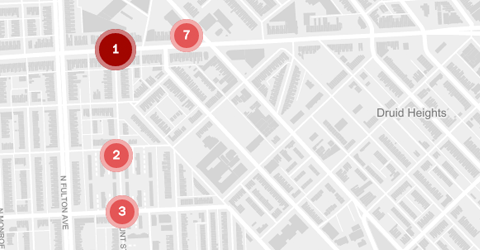
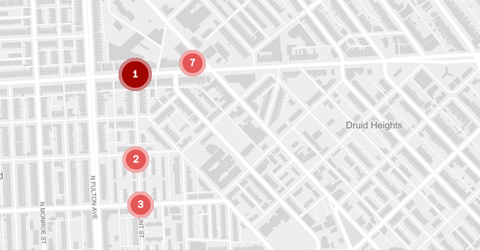
update img

diff --git a/data/data.js b/data/data.js
@@ -19,7 +19,7 @@ var writing =
 
 var code =
 [
-{"url":"http://www.washingtonpost.com/graphics/local/baltimore-riots-recap/","img":"code-baltimore.png","title":"Timeline and charges in Freddie Gray case"},
+{"url":"http://www.washingtonpost.com/graphics/local/baltimore-riots-recap/","img":"code-baltimore.png?2","title":"Timeline and charges in Freddie Gray case"},
 {"url":"http://www.washingtonpost.com/graphics/local/dc-voter-demographics/","img":"code-dcvote.png","title":"Changing D.C. voter demographics"},
 {"url":"http://www.washingtonpost.com/graphics/local/dc-marijuana-map/","img":"code-fedland.png","title":"Marijuana still illegal on federal land"},
 {"url":"http://www.washingtonpost.com/wp-srv/special/local/witness-killings/","img":"code-witnesses.png","title":"Witness killings since 2004"},
